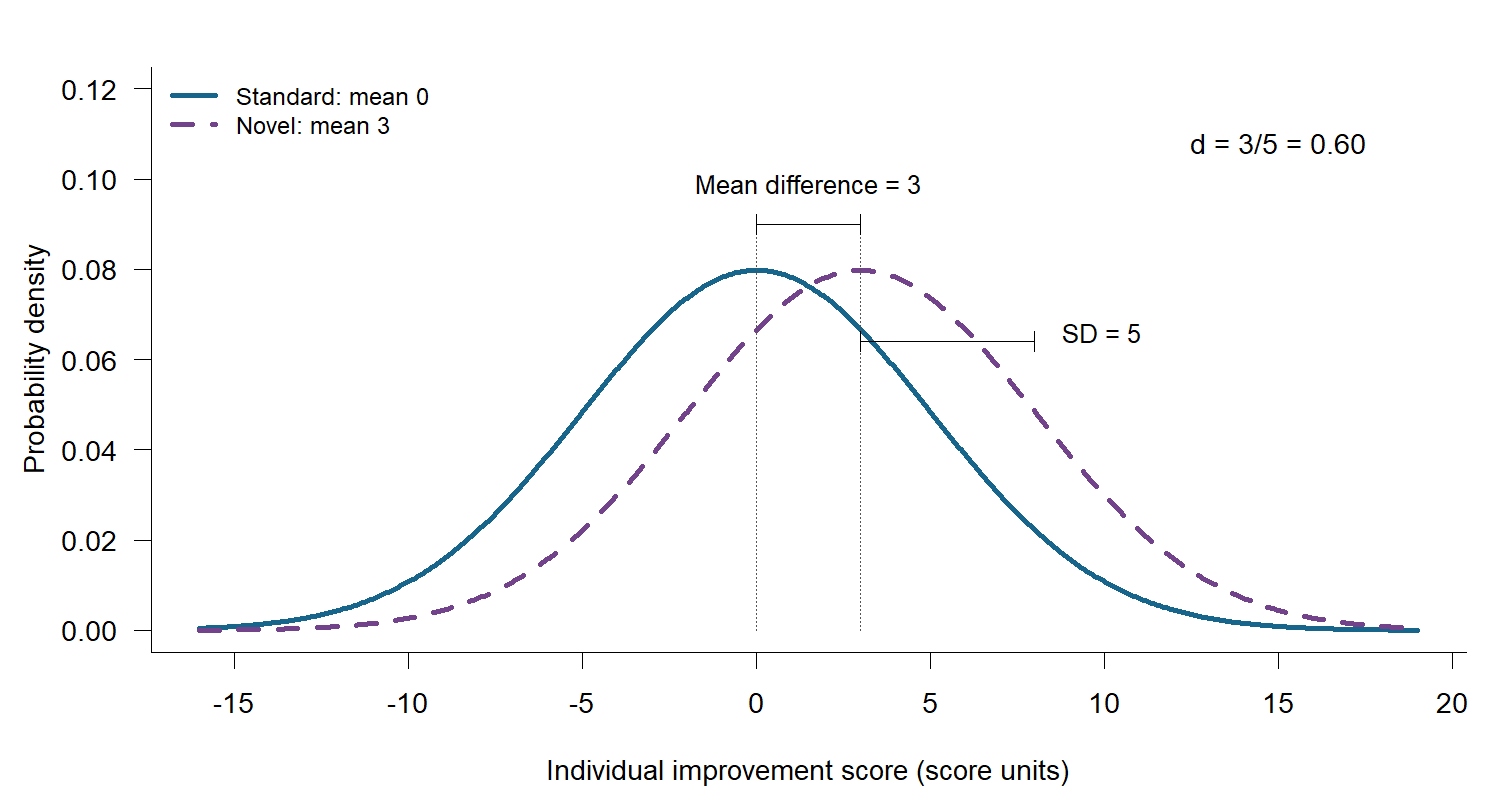
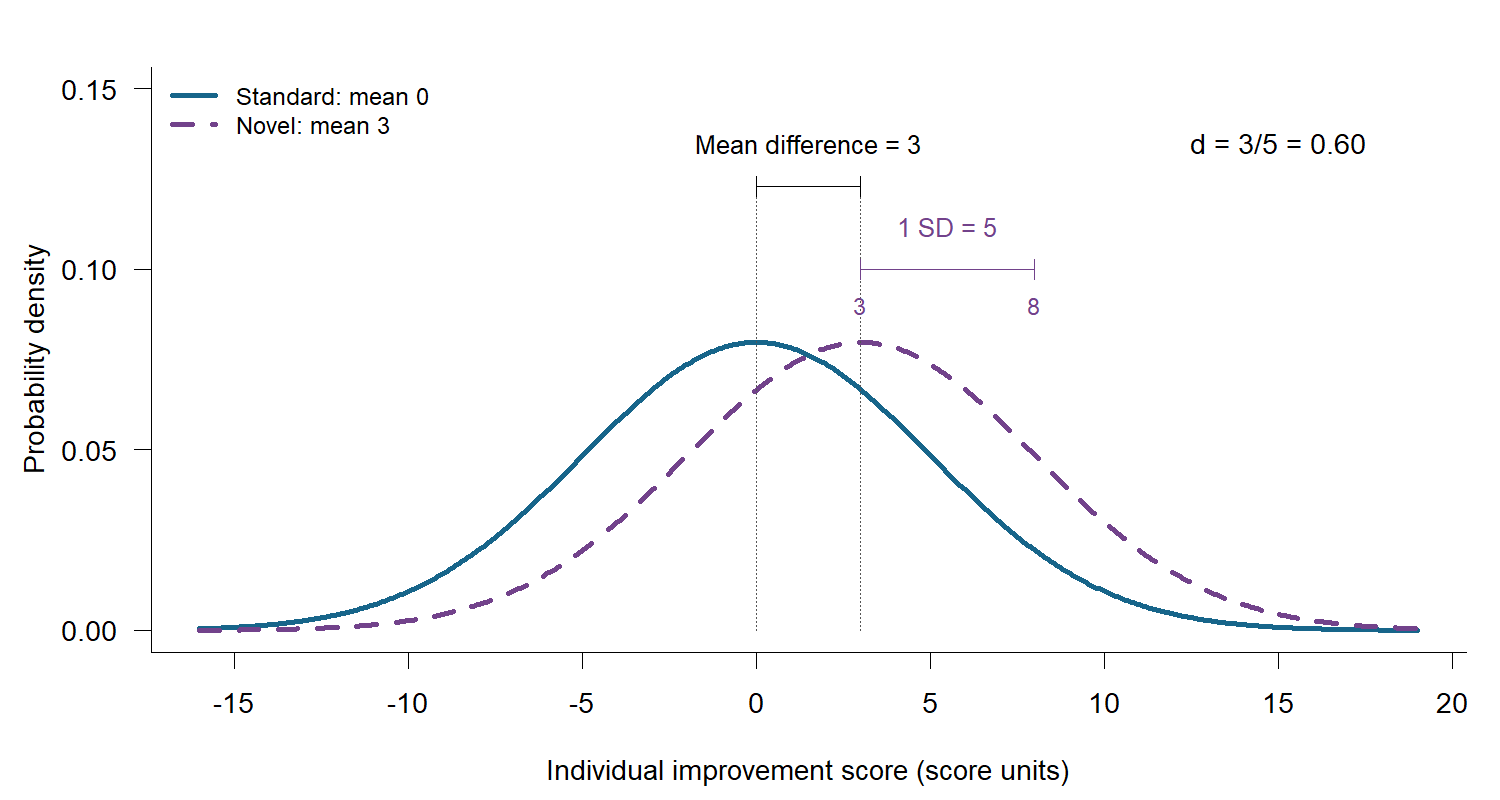
Simplify introductory simulation and standardize glossary and report exercise

diff --git a/apps/power_explorer/www/sampling-journey.js b/apps/power_explorer/www/sampling-journey.js
@@ -5,6 +5,15 @@
   const ns = 'http://www.w3.org/2000/svg';
   const pct = x => `${Math.round(x * 1000) / 10}%`;
   const average = values => values.reduce((a,b)=>a+b,0)/values.length;
+  const originalPositions=new Map();
+  function moveCoreControl(node,target,first=false){
+    if(!node||!target||node.parentNode===target)return;
+    if(!originalPositions.has(node)){const marker=document.createComment('Original shared-app position');node.before(marker);originalPositions.set(node,marker);}
+    target.insertBefore(node,first?target.firstChild:null);
+  }
+  function restoreCoreControl(node){
+    const marker=originalPositions.get(node);if(marker){marker.replaceWith(node);originalPositions.delete(node);}
+  }
   const scenarioName = source => isNull(source)?'Scenario 1: H₀ is true · equal population relief percentages':'Scenario 2: H₀ is not true · different population relief percentages';
   function node(svg, tag, attrs, text) {
     const n = document.createElementNS(ns, tag);
@@ -355,6 +364,8 @@
       const oneLink=document.querySelector('a[data-value="One study"]'), manyLink=document.querySelector('a[data-value="Many studies"]');
       if(!oneLink || !manyLink) return;
       document.documentElement.classList.toggle('pain-focus', payload.combine);
+      const fixedControls=el('fixed-sample-controls'),settings=document.querySelector('#lab-settings > .lab-settings-content');
+      if(payload.combine)moveCoreControl(fixedControls,settings,true);else restoreCoreControl(fixedControls);
       const title=document.querySelector('.app-title'), intro=document.querySelector('.app-intro');
       const estimating=document.documentElement.classList.contains('single-population-mode');
       if(title) title.textContent=estimating?'Estimate one population':payload.combine?'Pain relief: one trial and repeated trials':'Sample size reasoning lab';
@@ -374,17 +385,15 @@
       const onePanel=document.querySelector(oneLink.getAttribute('href')), manyPanel=document.querySelector(manyLink.getAttribute('href'));
       let combined=el('combined-many-studies');
       if(payload.combine && !combined){
-        combined=document.createElement('details');combined.id='combined-many-studies';combined.className='activity-details';
-        const summary=document.createElement('summary');summary.textContent='Numerical results for repeated trials';
+        combined=document.createElement('div');combined.id='combined-many-studies';
         const content=document.createElement('div');content.className='combined-content';content.append(...manyPanel.childNodes);
-        combined.append(summary,content);onePanel.append(combined);
+        combined.append(content);onePanel.append(combined);
         onePanel.querySelector('.simulation-actions').append(el('run_many'));
-        onePanel.querySelector('h3').textContent='One trial and repeated trials';
-        const credit=el('journey-credit');if(credit)onePanel.append(credit);
+        moveCoreControl(el('sample_comparison'),el('inline-study-explanation'));
       } else if(!payload.combine && combined){
+        restoreCoreControl(el('sample_comparison'));
         manyPanel.append(...combined.querySelector('.combined-content').childNodes);
         manyPanel.querySelector('h3').after(el('run_many'));combined.remove();
-        onePanel.querySelector('h3').textContent='One simulated trial';
       }
       oneLink.textContent=payload.combine?'One trial and repeated trials':'One trial';
       manyLink.parentElement.hidden=payload.combine;
@@ -403,7 +412,7 @@
       ['journey-pause','journey-replay','journey-finish'].forEach(id=>el(id).disabled=true);
       document.documentElement.classList.add('journey-batch-view');
       draw(1);status();
-      const results=el('combined-many-studies');if(results)results.open=true;
+      const results=el('inline-study-explanation');if(results)results.open=true;
       window.dispatchEvent(new Event('resize'));
     });
     $(document).on('shiny:inputchanged', event => {

diff --git a/apps/power_explorer/www/sampling-journey.css b/apps/power_explorer/www/sampling-journey.css
@@ -52,3 +52,16 @@
 .unified-sampling .separate-many-figure {display:none}
 .pain-focus #combined-many-studies h3 {display:none}
 .pain-focus.journey-batch-view #one_status {display:none}
+
+/* The introductory simulation has one result view and a compact settings box. */
+.pain-focus :is(.app-resume,#stage,#combined-many-studies) {display:none!important}
+.pain-focus .tab-pane[data-value="One study"] > h3 {display:none}
+.pain-focus .well {width:100%}
+.pain-focus .row > .col-sm-4,.pain-focus .row > .col-sm-8 {width:100%;float:none}
+.pain-focus #lab-settings {width:100%}
+.pain-focus .lab-settings-content {columns:2;column-gap:24px;padding-top:12px}
+.pain-focus .lab-settings-content :is(.shiny-input-container,.percentage-slider,.pain-population-options,details,p,h4) {break-inside:avoid;min-width:0;max-width:100%}
+.pain-focus .lab-settings-content .shiny-input-container {width:100%}
+.pain-focus:not(.lab-expanded) .lab-settings-content :is(.shiny-input-container,.percentage-slider):has(#goal,#outcome,#expected_p,#plan_p0,#plan_p1,#threshold_p,#target_power,#dropout) {display:none!important}
+.pain-focus #sample_comparison {margin-top:12px}
+@media(max-width:540px){.pain-focus .lab-settings-content{columns:1}}

diff --git a/site/app-layout.js b/site/app-layout.js
@@ -47,7 +47,7 @@
   function settings() {
     if (document.documentElement.classList.contains('tutorial-embedded')) return;
     document.querySelectorAll('.well').forEach(well => {
-      if (well.matches('.single-population-inputs') || well.querySelector(':scope > .app-settings')) return;
+      if (well.matches('.single-population-inputs') || well.querySelector('#lab-settings, :scope > .app-settings')) return;
       const disclosure = document.createElement('details'); disclosure.className = 'app-settings';
       disclosure.open = !narrow.matches;
       const summary = document.createElement('summary'); summary.textContent = 'Study settings';

diff --git a/student-materials/activity-walkthroughs.md b/student-materials/activity-walkthroughs.md
@@ -72,12 +72,12 @@ The [annotated report in Chapter 3](../book/reporting.html#write-a-sample-size-j
 
 Purpose: see why sample estimates differ from population values, interpret the uncertainty in one trial, and relate repeated trials to power.
 
-1. In Scenario 1, H₀ is true: both treatments provide 30% population relief. In Scenario 2, H₀ is not true: population relief is 30% with duloxetine and 60% with neravixa. The scenarios appear side by side, each starting with 20 patients per group and a 5% Type I error probability. Red stick figures represent the eligible population with neuropathic pain.
+1. In Scenario 1, H₀ is true: both treatments provide 30% population relief. In Scenario 2, H₀ is not true: population relief is 30% with duloxetine and 60% with neravixa. The scenarios appear side by side, each starting with 20 patients per group and a 5% Type I error probability. *Settings* contains the population choice, side-by-side display option and sample-size input. Red stick figures represent the eligible population with neuropathic pain.
 2. “Simulate one trial” follows patient outcomes through four steps: outcomes, estimated difference, estimates across trials, and the two-sided p value and test decision. Step 4 combines evidence in both directions into one p value. Values below the selected cutoff reject equal population relief percentages. Steps 2–3 retain the direction of the observed difference. In Scenario 1 (H₀ is true), whole-patient relief counts produce spikes and gaps among the p values. Equal counts give p = 1.
 3. The joined “Simulate [20] trials” control contains an editable number field. Selecting “Simulate” animates up to 20 trials. Larger selected counts appear immediately as distributions. Up to 40 patients per group appear as stick figures. Larger groups use red/green bars with exact outcome counts. The 100 tiles show decision percentages from all completed trials, rounded to whole percentages. For example, 250 errors among 5,000 trials produce five crosses. Correct decisions precede errors in both scenario grids, with exact counts above them. Each scenario has its own interpretation, with mean relief percentages and the mean estimated difference after a completed run. “Simulate 5000 trials” provides a quick view of repeated performance.
 4. Red stick figures show patients without pain relief, and green figures with raised arms show patients who achieved relief. Each trial's estimate and p value come from those patient outcomes. Blue circles mark correct test decisions, and amber crosses mark errors. Counts and percentages summarize both decisions in each population scenario.
 5. “Display and replay options” contains Pause, Replay, “Finish this batch,” animation speed and reduced motion. “Reset results” clears the simulations while keeping the input settings. Increasing the sample from 20 to 50 per group and generating another batch overlays the earlier estimates for comparison.
-6. “Interpret the figure” explains each scenario in its own column, including the observed percentages of correct decisions and errors.
+6. “Interpret the figure” explains each scenario in its own column, including the observed percentages of correct decisions and errors. After changing the sample size and running another batch, this section also compares the two batches. The introductory simulation is explored in place without a report tab or downloads.
 
 ## Reviewing short examples
 
@@ -288,7 +288,7 @@ Purpose: compare three sample size plans for a hypothetical trial of discharge w
 4. For Plan C, the novel-treatment percentage returns to 96%, and power increases to 90%. How does the required sample compare with Plan A?
 5. Your explanation should compare A with B to discuss the target difference, and A with C to discuss power. The worked answer in the tutorial shows all three calculations.
 
-For optional simulation exploration, “One trial” shows possible discharge counts and “Repeated trials” estimates the test's power under the selected assumptions. A no-effect scenario examines false positives. The [discharge simulation](../book/simulation.html#discharge-simulation) explains how simulation can assess the planning approximation near 100%.
+For optional simulation exploration, “One trial” shows possible discharge counts and “Repeated trials” estimates the test's power under the selected assumptions. A no-effect scenario examines false positives. The [discharge simulation app](../power_explorer/?activity=discharge) allows this comparison near 100%, with an explanation in [Evaluating the discharge calculation](../book/simulation.html#discharge-simulation).
 
 <span id="build-your-own-study-calculation--advanced-application"></span>
 

diff --git a/student-materials/glossary.md b/student-materials/glossary.md
@@ -63,7 +63,10 @@ A threshold for improvement within a patient can define who counts as achieving 
 <span id="standardized-mean-difference">Standardized mean difference (Cohen's d)</span>
 : A difference between group means expressed in within-group standard-deviation units. In the two-independent-group example, SD describes the spread of individual outcomes within each population, assumed equal across groups. A pooled within-group sample SD estimates that common SD from observed data. A difference of 3 score units with SD 5 gives d = 3/5 = 0.60. The [two-means calculation](#two-means) uses these quantities. Clinical relevance depends on the outcome and study context.
 
-![Two hypothetical distributions of individual improvement scores with means 0 and 3 and a common within-group SD of 5. The 3-unit distance between means is 0.60 SD. Greater improvement is favorable.](../figures/standardized-difference.png)
+<div class="figure" id="fig:standardized-difference">
+<img src="../figures/standardized-difference.png" alt="Two distributions with means 0 and 3. A separate purple bracket spans one standard deviation, from 3 to 8, above the curves." />
+<p class="caption">Figure G.1: Standardized mean difference. The group means differ by 3 score units, and both populations have an SD of 5. The purple bracket spans one SD above the novel-treatment mean. The standardized difference is d = 3/5 = 0.60.</p>
+</div>
 
 
 ### Standardized treatment effect {#standardized-treatment-effect .core-heading .unnumbered}
@@ -325,11 +328,14 @@ The Central Committee on Research Involving Human Subjects directly reviews spec
 
 A Wilson interval gives a range for a population percentage from the observed event count. Both Wilson and the simple normal (Wald) interval use a normal critical value, such as 1.96 for 95% confidence. They use it differently. The Wald interval starts at the observed percentage and adds the same margin on both sides. Wilson checks which candidate population percentages are compatible with the observed count using a [score test](#score-test). Its limits stay within 0% and 100%, and the margins can differ [@brown2001interval].
 
-![Normal (Wald) and Wilson 95% intervals for the same patient counts. Dots mark the observed percentages. With 50 events in 100 patients, the intervals are similar. With one event in 20 patients, the normal lower limit is negative. With zero events in 20, the normal interval collapses to zero, while Wilson still allows population percentages up to about 16%.](../figures/wald-wilson-intervals.png)
+<div class="figure" id="fig:wald-wilson-intervals">
+<img src="../figures/wald-wilson-intervals.png" alt="Normal and Wilson 95% intervals for 50 of 100, 1 of 20, and 0 of 20 events. The normal interval extends below zero for 1 event and collapses to zero for no events. Wilson remains within 0% to 100%." />
+<p class="caption">Figure G.2: Normal (Wald) and Wilson 95% confidence intervals calculated from the same patient counts. Dots mark the observed percentages. The intervals are similar for 50 events in 100 patients. With one event in 20, the normal lower limit is negative. With zero events in 20, the normal interval collapses to zero, while Wilson allows population percentages up to about 16%.</p>
+</div>
 
 The normal formula is useful for understanding interval width and initial sample size planning. For an observed percentage, Wilson is a useful routine choice, including for common outcomes. Its advantages are particularly visible with small samples or percentages near 0% or 100%. A zero count in 20 patients still leaves uncertainty about events in the population. For very rare outcomes or requirements for conservative coverage, an exact binomial interval may be appropriate. The method should be named in the analysis plan [@brown2001interval; @nistbinomial].
 
-The [prevalence example](#estimation-report) uses the normal approximation for initial planning and Wilson intervals for the completed survey. Comparing these methods helps explain why planning and analysis procedures are recorded separately.
+The [prevalence example](#estimation-report) uses the normal approximation for initial planning and Wilson intervals for the completed survey.
 
 ### Score test {#score-test .advanced-heading .unnumbered}
 
